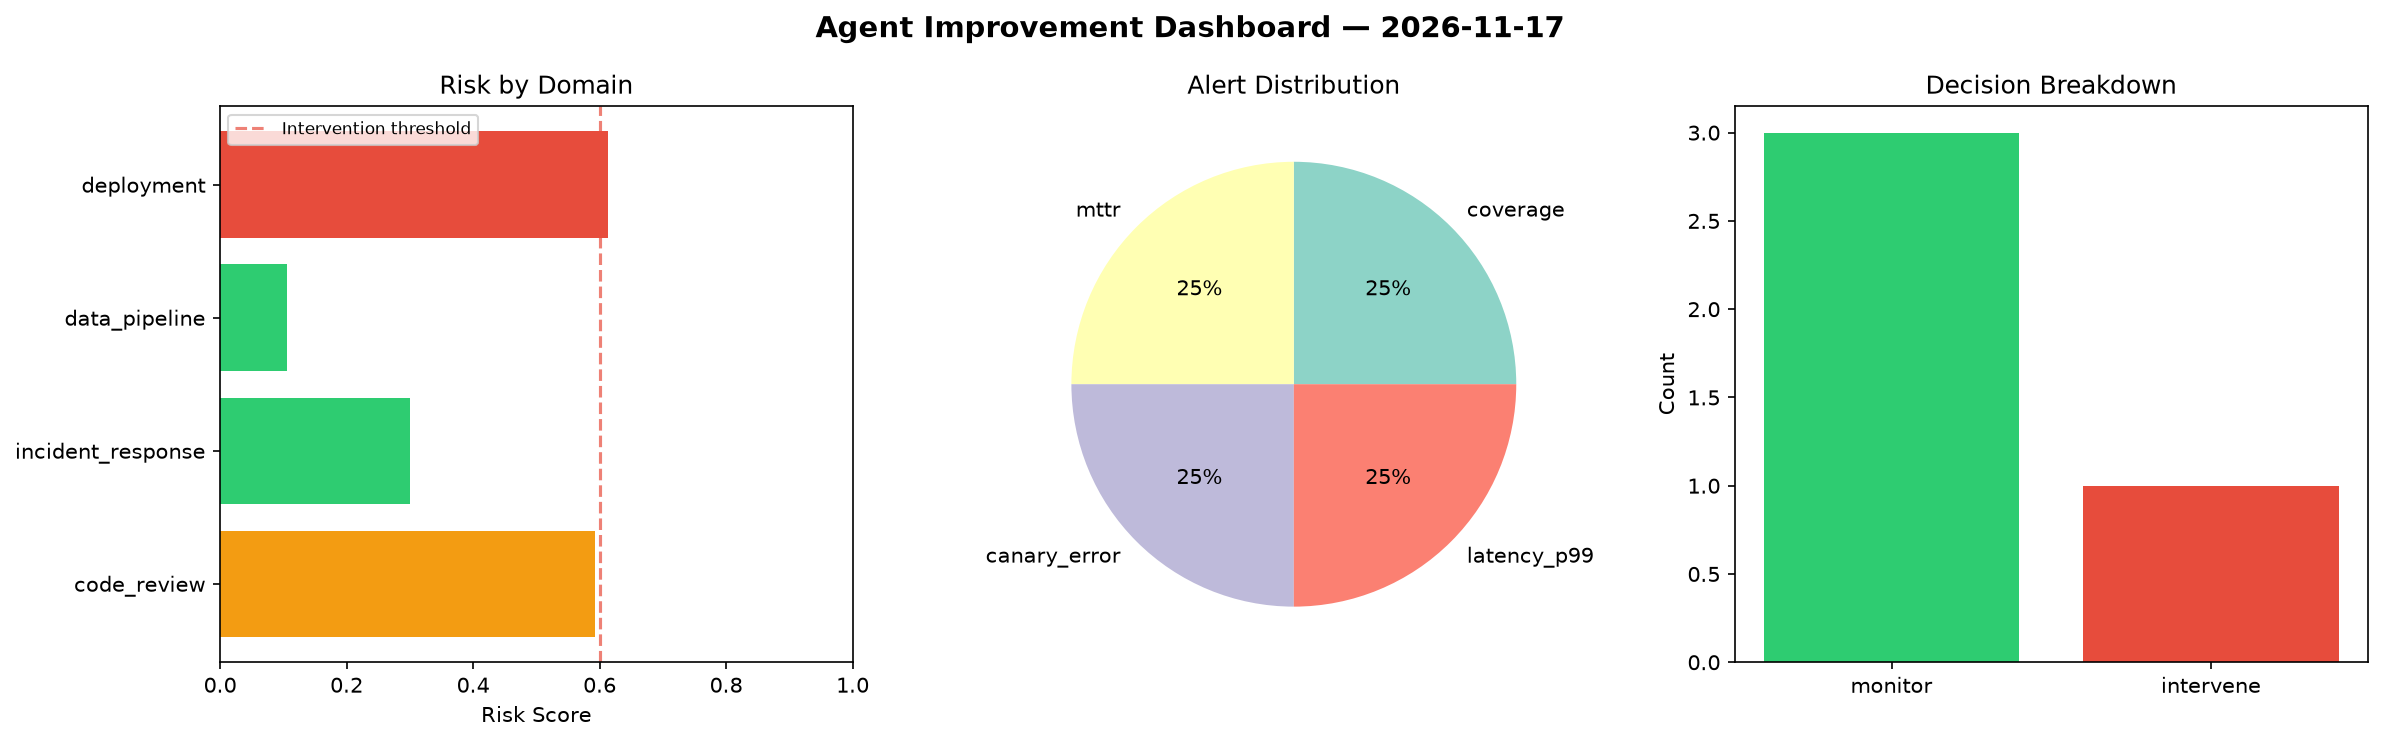
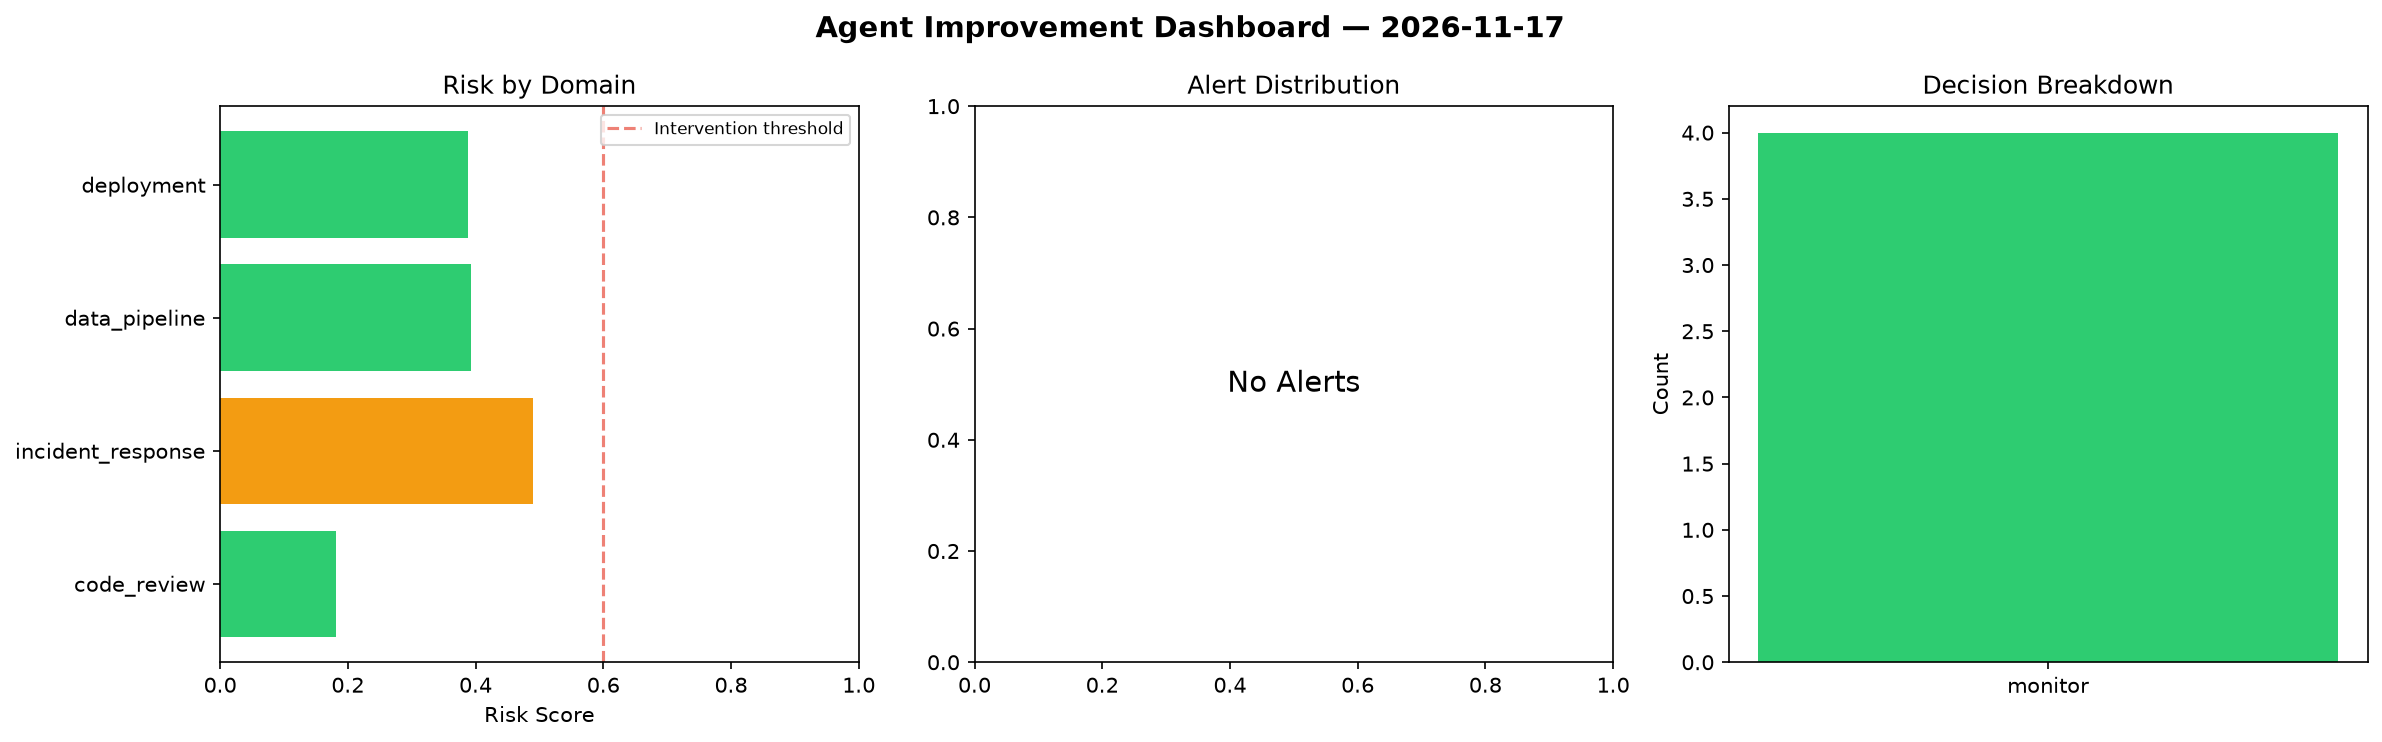
agent-improvement: daily cycle 2026-11-17T17:37

diff --git a/logs/2026-11-17.md b/logs/2026-11-17.md
@@ -1,6 +1,6 @@
 # Agent Improvement Report — 2026-11-17
 
-**Cycle ID:** `b9c21efd` | **Avg Risk:** 0.4029 | **Interventions:** 1/4
+**Cycle ID:** `e80bb5f3` | **Avg Risk:** 0.3631 | **Interventions:** 0/4
 
 ![Dashboard](2026-11-17_dashboard.png)
 
@@ -10,18 +10,18 @@
 
 | Domain | Risk Score | Decision | Alerts |
 |--------|-----------|----------|--------|
-| code_review | 0.592 | monitor | coverage |
-| incident_response | 0.3007 | monitor | mttr |
-| data_pipeline | 0.1062 | monitor | none |
-| deployment | 0.6125 | intervene | canary_error, latency_p99 |
+| code_review | 0.1818 | monitor | none |
+| incident_response | 0.4893 | monitor | none |
+| data_pipeline | 0.3931 | monitor | none |
+| deployment | 0.3881 | monitor | none |
 
 ## Delta vs Yesterday
 
 | Domain | Today | Yesterday | Change |
 |--------|-------|-----------|--------|
-| code_review | 0.592 | 0.8628 | 📉 -31.4% |
-| incident_response | 0.3007 | 0.5608 | 📉 -46.4% |
-| data_pipeline | 0.1062 | 0.857 | 📉 -87.6% |
-| deployment | 0.6125 | 0.5309 | 📈 15.4% |
+| code_review | 0.1818 | 0.8628 | 📉 -78.9% |
+| incident_response | 0.4893 | 0.5608 | 📉 -12.7% |
+| data_pipeline | 0.3931 | 0.857 | 📉 -54.1% |
+| deployment | 0.3881 | 0.5309 | 📉 -26.9% |
 
 **Refinement:** `{'adjustment': 'tighten_thresholds', 'trend': 'degrading', 'window': 4}`
